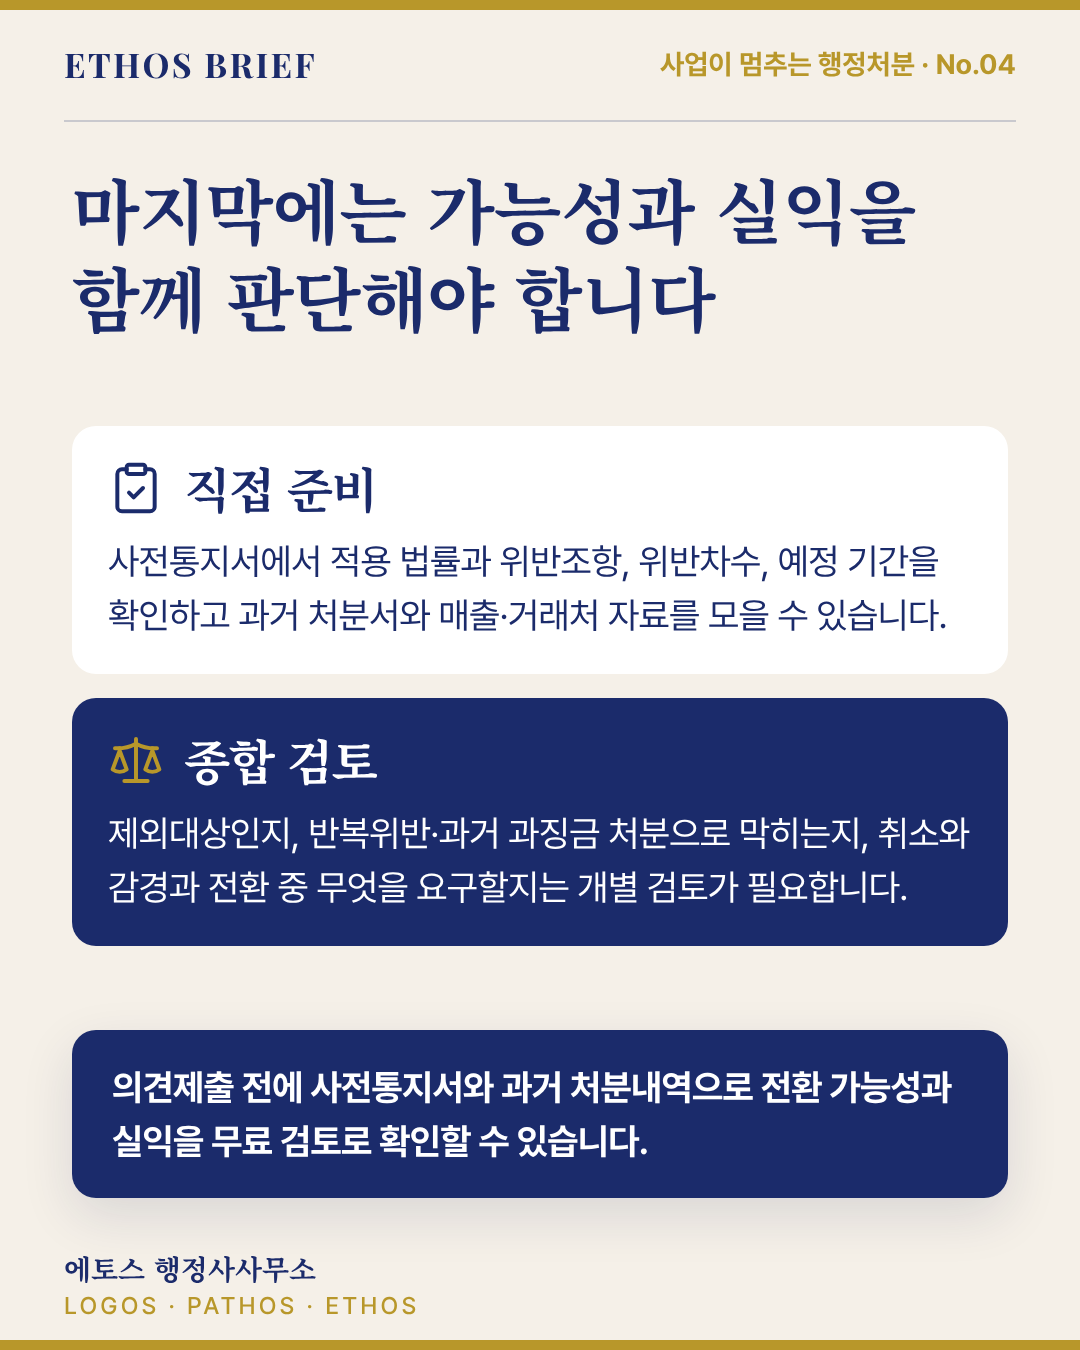
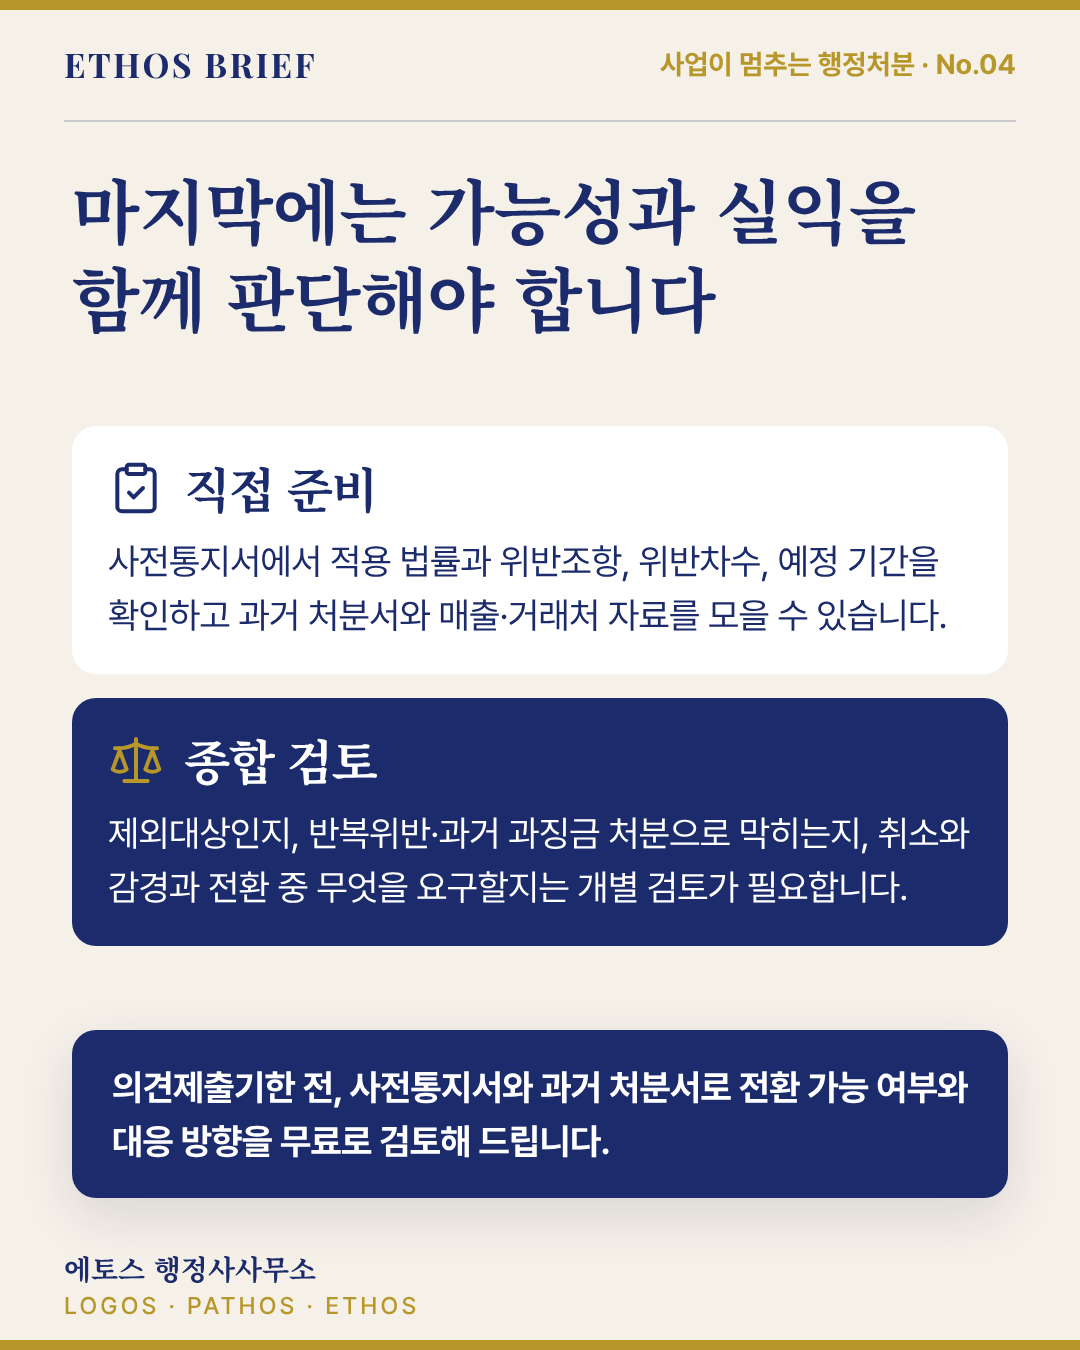
feat: 카드 분량 기준 통일(gates 1.7)과 전환 장치(실제 기한·구체 CTA·받을 자료·저장·다음 편) (#33)
- gates.json 1.7: 영문 카드 권고 340자·60단어, 강한 경고 420자·72단어(승인본 실측). card-limits 세트 평균 국문 130~210, 영문 280~440
- Render cards 워크플로가 기준 파일 변경에도 실행
- 전환 장치: 블로그 의견제출기한(행정절차법 제21조), 마지막 장 CTA(보낼 것→받을 결과), lead-magnet.md, 캡션 저장 신호·다음 편, 린터 안내, 명세 '전환 장치' 절
- TEST-SUSPENSION-V3 마지막 장 CTA 재승인

Claude-Session: https://claude.ai/code/session_01QUs8FUpMwmocYMUwhS2875

Changed region(s): [[0.0917, 0.7778, 0.8861, 0.8711]]

diff --git a/content/TEST-SUSPENSION-V3/ko/card_10.html b/content/TEST-SUSPENSION-V3/ko/card_10.html
@@ -43,7 +43,7 @@
   <path d="m5 8 3 8a5 5 0 0 1-6 0zV7" />
   <path d="M7 21h10" />
 </svg></div><div class="bound-k">종합 검토</div></div><div class="bound-t">제외대상인지, 반복위반·과거 과징금 처분으로 막히는지, 취소와 감경과 전환 중 무엇을 요구할지는 개별 검토가 필요합니다.</div></div></div></div>
-    <div class="z-take" data-zone="take"><div class="take" data-role="takeaway">의견제출 전에 사전통지서와 과거 처분내역으로 전환 가능성과 실익을 무료 검토로 확인할 수 있습니다.</div></div>
+    <div class="z-take" data-zone="take"><div class="take" data-role="takeaway">의견제출기한 전, 사전통지서와 과거 처분서로 전환 가능 여부와 대응 방향을 무료로 검토해 드립니다.</div></div>
   </div>
   <div class="ftr"><div class="org" data-frame="org">에토스 행정사사무소</div><div class="tagl" data-frame="tagline">LOGOS · PATHOS · ETHOS</div><div class="pg" data-frame="page" aria-hidden="true"></div></div>
   <div class="gold-bottom" data-frame="gold-bottom"></div>

diff --git a/content/TEST-SUSPENSION-V3/en/card_10.html b/content/TEST-SUSPENSION-V3/en/card_10.html
@@ -43,7 +43,7 @@
   <path d="m5 8 3 8a5 5 0 0 1-6 0zV7" />
   <path d="M7 21h10" />
 </svg></div><div class="bound-k">Needs review</div></div><div class="bound-t">Exclusions, limits from repeat violations or a past fine, and whether to seek cancellation, reduction or conversion need case-by-case review.</div></div></div></div>
-    <div class="z-take" data-zone="take"><div class="take" data-role="takeaway">Before you respond, a free review of your notice and past sanctions can check eligibility and payoff.</div></div>
+    <div class="z-take" data-zone="take"><div class="take" data-role="takeaway">Before the deadline, a free review of your notice and past sanctions shows eligibility and next steps.</div></div>
   </div>
   <div class="ftr"><div class="org" data-frame="org">Ethos Administrative Attorney Office</div><div class="tagl" data-frame="tagline">LOGOS · PATHOS · ETHOS</div><div class="pg" data-frame="page" aria-hidden="true"></div></div>
   <div class="gold-bottom" data-frame="gold-bottom"></div>

diff --git a/scripts/copy_lint.py b/scripts/copy_lint.py
@@ -631,7 +631,7 @@ def lint_information(data, lang, report):
     average = sum(counts) / len(counts)
     thin = [card["page"] for card, n in zip(cards, counts) if card["type"] not in ("cover", "cta", "quote") and n < floor * 0.7]
     if average < floor:
-        report.add("warn", "thin-set", f"[{lang}] 세트 전체", f"카드 평균 {average:.0f}자로 권장 하한 {floor}자보다 적습니다(승인본은 국문 약 130~165자, 영문 약 290~370자).",
+        report.add("warn", "thin-set", f"[{lang}] 세트 전체", f"카드 평균 {average:.0f}자로 권장 하한 {floor}자보다 적습니다(승인본은 국문 약 133~165자, 영문 약 287~368자).",
                    "정보가 얇으면 저장·공유할 이유가 약해집니다. 필드 한도 안에서 조건·기준·예시를 한 줄씩 더하거나, 얇은 카드를 합치세요.")
     ceiling = LIMITS.get("informationCeiling", {}).get(lang)
     if ceiling and average > ceiling:
@@ -728,6 +728,16 @@ def lint_distribution_file(path, report):
     if INTAKE_LINK not in text:
         report.add("warn", "no-intake-link", "distribution", "상담 접수 추적 링크가 없습니다. 어느 게시물에서 문의가 왔는지 집계되지 않습니다.",
                    "PROJECT_INSTRUCTIONS.md '마케팅·추적' 형식이나 `python scripts/tracking_link.py <ID>`로 채널별 링크를 넣으세요.")
+    # 전환 장치(권고): 저장 신호, 다음 편 연결, 받을 자료. 실제 기한·서비스 범위는 원문·brief에 있을 때만 쓴다.
+    if not re.search(r"저장|save", text, re.IGNORECASE):
+        report.add("info", "no-save-cue", "distribution", "캡션에 저장할 이유를 알려 주는 문장이 없습니다.",
+                   "'의견서를 쓰기 전에 다시 볼 수 있게 저장해 두세요'처럼 실제 쓰임과 묶어 한 줄 넣으세요.")
+    if re.search(r"시리즈|series", text, re.IGNORECASE) and not re.search(r"다음 편|next", text, re.IGNORECASE):
+        report.add("info", "no-next-episode", "distribution", "시리즈 글인데 캡션에 다음 편 안내가 없습니다.",
+                   "'다음 편: …' 한 줄을 넣으면 시리즈를 이어 보게 됩니다(원문 목차의 제목 그대로).")
+    if not (path.parent / "lead-magnet.md").exists():
+        report.add("info", "no-lead-magnet", "distribution", "받을 자료(lead-magnet.md)가 없습니다.",
+                   "원문의 확인 항목을 한 장 체크리스트로 만들면 문의 전 단계(저장·내려받기)가 생깁니다. 원문에 없는 사실은 넣지 않습니다.")
     tags = re.findall(r"#([^\s#]+)", "\n".join(line for line in text.splitlines() if not line.lstrip().startswith("#" * 2) and line.count("#") >= 3))
     for word, count in tag_rules.overused_words(tags):
         report.add("info", "dist-tags", "distribution 해시태그", f"'{word}'가 태그 {count}개에 들어 있습니다(같은 낱말 {tag_rules.MAX_SAME_WORD}개까지).",

diff --git a/tests/test_copy_lint.py b/tests/test_copy_lint.py
@@ -690,6 +690,19 @@ class BlogStructureTest(unittest.TestCase):
         self.assertIn("cta-not-last", self.run_blog(["본문", "무료 검토 안내", "목차 한 줄", "#가 #나 #다"]))
         self.assertNotIn("cta-not-last", self.run_blog(["본문", "무료 검토로 확인할 수 있습니다.", "#가 #나 #다"]))
 
+    def test_conversion_cues_are_suggested(self):
+        with tempfile.TemporaryDirectory() as tmp:
+            path = pathlib.Path(tmp) / "distribution.md"
+            path.write_text("시리즈 제4편\n", encoding="utf-8")
+            report = copy_lint.Report()
+            copy_lint.lint_distribution_file(path, report)
+            self.assertTrue({"no-save-cue", "no-next-episode", "no-lead-magnet"} <= {f["rule"] for f in report.findings})
+            path.write_text("시리즈 제4편 · 다음 편: 공인중개사\n저장해 두세요\n", encoding="utf-8")
+            (pathlib.Path(tmp) / "lead-magnet.md").write_text("확인표", encoding="utf-8")
+            report = copy_lint.Report()
+            copy_lint.lint_distribution_file(path, report)
+            self.assertFalse({"no-save-cue", "no-next-episode", "no-lead-magnet"} & {f["rule"] for f in report.findings})
+
     def test_distribution_without_intake_link_is_warned(self):
         with tempfile.TemporaryDirectory() as tmp:
             path = pathlib.Path(tmp) / "distribution.md"

diff --git a/content/TEST-SUSPENSION-V3/out/en/qa-report.md b/content/TEST-SUSPENSION-V3/out/en/qa-report.md
@@ -16,42 +16,34 @@
 | card_07.html | quote | 345 | 59 | 0.82 | 26 | PASS |
 | card_08.html | checklist | 230 | 45 | 0.76 | 26 | PASS |
 | card_09.html | checklist | 334 | 65 | 0.63 | 26 | PASS |
-| card_10.html | cta | 380 | 64 | 0.79 | 26 | PASS |
-
-### card_01.html 권고
-- words 54 > 권고 48 (영문 호흡과 모바일 가독성 확인)
+| card_10.html | cta | 381 | 64 | 0.79 | 26 | PASS |
 
 ### card_02.html 권고
-- chars 339 > 권고 300 (문장 압축 또는 카드 분리 검토)
-- words 65 > 강한 경고 48 (영문 호흡과 모바일 가독성 확인)
+- words 65 > 권고 60 (영문 호흡과 모바일 가독성 확인)
 
 ### card_03.html 권고
-- chars 337 > 권고 300 (문장 압축 또는 카드 분리 검토)
-- words 68 > 강한 경고 48 (영문 호흡과 모바일 가독성 확인)
+- words 68 > 권고 60 (영문 호흡과 모바일 가독성 확인)
 
 ### card_04.html 권고
-- chars 334 > 권고 300 (문장 압축 또는 카드 분리 검토)
-- words 61 > 권고 48 (영문 호흡과 모바일 가독성 확인)
+- words 61 > 권고 60 (영문 호흡과 모바일 가독성 확인)
 
 ### card_05.html 권고
-- chars 358 > 권고 300 (문장 압축 또는 카드 분리 검토)
-- words 64 > 권고 48 (영문 호흡과 모바일 가독성 확인)
+- chars 358 > 권고 340 (문장 압축 또는 카드 분리 검토)
+- words 64 > 권고 60 (영문 호흡과 모바일 가독성 확인)
 
 ### card_06.html 권고
-- chars 348 > 권고 300 (문장 압축 또는 카드 분리 검토)
-- words 67 > 강한 경고 48 (영문 호흡과 모바일 가독성 확인)
+- chars 348 > 권고 340 (문장 압축 또는 카드 분리 검토)
+- words 67 > 권고 60 (영문 호흡과 모바일 가독성 확인)
 
 ### card_07.html 권고
-- chars 345 > 권고 300 (문장 압축 또는 카드 분리 검토)
-- words 59 > 권고 48 (영문 호흡과 모바일 가독성 확인)
+- chars 345 > 권고 340 (문장 압축 또는 카드 분리 검토)
 
 ### card_09.html 권고
-- chars 334 > 권고 300 (문장 압축 또는 카드 분리 검토)
-- words 65 > 강한 경고 48 (영문 호흡과 모바일 가독성 확인)
+- words 65 > 권고 60 (영문 호흡과 모바일 가독성 확인)
 
 ### card_10.html 권고
-- chars 380 > 권고 300 (문장 압축 또는 카드 분리 검토)
-- words 64 > 권고 48 (영문 호흡과 모바일 가독성 확인)
+- chars 381 > 권고 340 (문장 압축 또는 카드 분리 검토)
+- words 64 > 권고 60 (영문 호흡과 모바일 가독성 확인)
 
 ## 사람이 확인할 것 (자동화 불가)
 - [ ] 법령·판례 해석이 원문과 일치하는가 (변호사·행정사 최종 확인)
@@ -64,4 +56,4 @@
 - [ ] 마지막 장 CTA 문구가 마스터 지침의 무료 검토 안내와 일치하는가
 - [ ] 카드 한 장이 한 가지 메시지만 전달하는가
 
-게이트 v1.6 · 기준은 초기 가설(instagram-profile-advisory)
+게이트 v1.7 · 기준은 초기 가설(instagram-profile-advisory)

diff --git a/content/TEST-SUSPENSION-V3/distribution.md b/content/TEST-SUSPENSION-V3/distribution.md
@@ -11,9 +11,15 @@
 ## SNS 캡션
 영업정지 사전통지를 받은 사업자를 위한 정리입니다. 영업정지 대신 과징금을 내면 끝일까요? 전환 근거가 있는지, 이번 위반이 제외대상인지, 과거 처분 때문에 제한되는지부터 봐야 합니다. 가능하더라도 예상 과징금과 실제 영업손실을 함께 비교해야 합니다.
 
-시리즈 「사업이 멈추는 행정처분」 제4편 · 제1편: 사전통지서를 받았다면
+사전통지서에 적힌 의견제출기한(10일 이상으로 정하도록 되어 있습니다) 안에 확인해야 할 것들입니다. 의견서를 쓰기 전에 다시 볼 수 있게 저장해 두세요.
 
-근거: 식품위생법 제82조, 폐기물관리법 제28조, 건설산업기본법 제82조·제83조, 행정심판법 제51조
+시리즈 「사업이 멈추는 행정처분」 제4편 · 다음 편: 공인중개사 업무정지 — 6개월 처분도 달라질 수 있을까 · 제1편: 사전통지서를 받았다면
+
+근거: 행정절차법 제21조, 식품위생법 제82조, 폐기물관리법 제28조, 건설산업기본법 제82조·제83조, 행정심판법 제51조
+
+## 받을 자료(확인표) 문구 — `lead-magnet.md`를 프로필 링크 페이지에 올린 뒤에만 쓴다
+- 국문: 이 카드의 확인 항목을 한 장으로 정리한 「사전통지서 확인표」는 프로필 링크에서 받을 수 있습니다.
+- 영문: A one-page advance-notice checklist with these checks is available from the profile link.
 
 ## 해시태그
 #영업정지과징금 #과징금전환 #영업정지사전통지 #의견제출 #행정처분 #행정심판 #식품위생법 #폐기물처리업 #건설업
@@ -46,9 +52,11 @@
 
 For business owners in Korea who have received an advance notice of a business suspension. Can you pay a fine instead and keep operating? Only where the law allows it. First check whether the governing law provides a fine in place of suspension, whether this violation is excluded, and whether past sanctions block conversion. Even when conversion is possible, compare the expected fine with your real losses from a suspension.
 
-Series "When Business Stops" No.04 · No.01: when you receive an advance notice
+Your advance notice states a response deadline, which must allow at least 10 days. Save this to check before you write your response.
 
-Basis: Food Sanitation Act Art. 82, Wastes Control Act Art. 28, Framework Act on the Construction Industry Arts. 82–83, Administrative Appeals Act Art. 51
+Series "When Business Stops" No.04 · Next: a six-month suspension for a real-estate agency · No.01: when you receive an advance notice
+
+Basis: Administrative Procedures Act Art. 21, Food Sanitation Act Art. 82, Wastes Control Act Art. 28, Framework Act on the Construction Industry Arts. 82–83, Administrative Appeals Act Art. 51
 
 ### Hook variants
 

diff --git a/CHANGELOG.md b/CHANGELOG.md
@@ -1,5 +1,22 @@
 # Changelog
 
+## 2026-10-07 — 전환 장치(실제 기한·보낼 것→받을 결과·받을 자료·저장·다음 편)
+
+- 원칙 안에서 문의로 이어지게: 꾸며낸 긴장 금지, CTA 마지막 한 번, 카드·본문 연락처 금지는 그대로.
+- TEST-SUSPENSION-V3: 블로그에 의견제출기한 단락(행정절차법 제21조 제1항 제6호·제3항, korean-law-mcp로 2026-10-07 원문 확인). 마지막 장 CTA를 "의견제출기한 전, 사전통지서와 과거 처분서로 전환 가능 여부와 대응 방향을 무료로 검토해 드립니다"로(결과는 brief의 승인 범위, 회신 기간은 미확인이라 쓰지 않음). 캡션에 기한·저장 신호·다음 편, 받을 자료 `lead-magnet.md`(사전통지서 확인표, 원문 내용만).
+- `copy_lint.py`: 배포안에 저장 신호(`no-save-cue`)·다음 편(`no-next-episode`)·받을 자료(`no-lead-magnet`)가 없으면 안내.
+- 명세: `card-authoring-spec.md` "전환 장치" 절, `blog-authoring-spec.md` 머리 안내. `strategy-playbook.md` 6절에 웹사이트 요청(접수 폼 첨부 칸, 받을 자료 페이지) 추가.
+
+## 2026-10-07 — 카드 분량 기준 통일(승인본 실측)
+
+- 문제: 명세는 영문 세트 평균 330자 **이상**, QA(`gates.json`)는 영문 카드 300자·48단어 **이하**를 권해 동시에 맞출 수 없었다. 국문도 명세 하한 150자가 승인본 평균(133~165자)보다 높았다. 승인본 영문 세트조차 카드의 22~78%가 권고에 걸렸다.
+- 사용자 위임으로 승인본 실측(SUSPENSION-SURCHARGE-04·GAME-OVERSEAS-06·시범 세트)에 맞춰 정했다.
+  - `gates.json` 1.7: 영문 카드 권고 340자·60단어, 강한 경고 420자·72단어(이전 300·48 / 380·64). 국문 180·240은 그대로.
+  - `card-limits.json`: 세트 평균 하한 국문 130·영문 280(이전 150·330), 상한 국문 210·영문 440(이전 220·450).
+  - 명세·프로젝트 지침: 목표 국문 150~190자, 영문 300~400자. 영문은 국문의 약 2.2배가 정상.
+- 모든 기준은 권고이며 렌더를 막지 않는다(하드 실패 조건은 바꾸지 않았다).
+- `Render cards` 워크플로가 `gates.json`·`card-limits.json` 변경에도 돌도록 했다(바뀐 세트가 없으면 전체 세트를 새 기준으로 미리보기). 승인 세트의 커밋된 `out/` QA 보고서는 승인 당시(v1.6) 기록이라 다시 쓰지 않았다.
+
 ## 2026-10-07 — 남은 개선 마무리(표·흐름 부품, 표지 그림, 밀도, 성과 기록)
 
 - 자동 디자인: 표(`.tbl2`, 5행 이상 압축), 세로 흐름(`.vflow`, 아이콘 배지+화살표+메모), 마지막 장 3~6개 목록(`.docs`) 부품. 문자열 항목("제목: 설명")은 구분 기호를 남겨 원문 그대로 보이게 했다. GAME-OVERSEAS-06-V2-DRAFT의 표 2장·흐름 1장이 자동 디자인으로 나온다.

diff --git a/content/TEST-SUSPENSION-V3/lead-magnet.md b/content/TEST-SUSPENSION-V3/lead-magnet.md
@@ -1,0 +1,32 @@
+# 사전통지서 확인표 — 영업정지를 과징금으로 바꿀 수 있을까
+
+에토스 행정사사무소 · 「사업이 멈추는 행정처분」 제4편 받을 자료. 원문(`blog.md`)에 있는 내용만 한 장으로 정리했다. 개별 사건의 결론이 아니다.
+
+## 1. 사전통지서에서 먼저 표시할 것
+- [ ] 의견제출기한 — 사전통지서에 적혀 있다(행정절차법 제21조 제1항 제6호). 10일 이상으로 정하도록 되어 있다(같은 조 제3항)
+- [ ] 적용 법률과 위반조항
+- [ ] 위반차수(처음인지, 반복인지)
+- [ ] 예정된 영업정지 기간
+
+## 2. 과징금 전환, 네 가지 순서로 보기
+1. **근거** — 근거법률에 영업정지를 갈음하는 과징금 규정이 있는가
+2. **제외** — 이번 위반행위와 위반차수가 제외대상인가
+3. **전력** — 과거 위반·과징금 처분이 다시 전환을 막는가
+4. **실익** — 예상 과징금과 영업정지 때의 실제 손실을 비교했는가
+
+## 3. 전환이 막히는 경우
+- [ ] 처분조항 자체에 영업정지를 갈음하는 과징금 근거가 없다
+- [ ] 이번 위반행위나 위반차수가 법령상 제외대상이다
+- [ ] 과거 과징금 처분 등으로 일정 기간 다시 전환할 수 없다
+- [ ] 사업 손실만 주장하고 법이 정한 전환요건을 입증하지 못했다
+
+## 4. 미리 모아 둘 자료
+- [ ] 사전통지서
+- [ ] 과거 처분서
+- [ ] 매출 자료, 거래처 자료
+
+## 5. 알아 둘 것
+- 행정심판 재결이 나오면 같은 처분으로 다시 청구할 수 없다(행정심판법 제51조). 무엇을 요구할지(취소·감경·과징금 전환)는 첫 청구에서 정한다.
+
+---
+제외대상인지, 반복위반이나 과거 처분으로 막히는지, 어떤 대응을 요구할지는 개별 검토가 필요하다. 의견제출기한 전에 사전통지서와 과거 처분서로 무료 검토를 받을 수 있다.

diff --git a/PROJECT_INSTRUCTIONS.md b/PROJECT_INSTRUCTIONS.md
@@ -35,7 +35,7 @@
    - `brief.md`는 10줄 이내(독자, 독자의 질문, 직접 답, CTA로 받을 자료 2~3개·확인 결과 1~3개, 카드별 한 줄 제목). `distribution.md`는 `content/_TEMPLATE/distribution.md` 구조 그대로 짧게.
    - 생각을 길게 늘어놓지 않는다. 근거 확인과 한도 계산을 문장마다 반복하지 말고, 쓴 뒤 한 번만 훑는다.
 3. **시각 요소를 쓴다.** 표지에 `art`(아이콘 2~3개)나 `coverStyle`, 카드의 3분의 1 이상에 `icon`(`assets/icons/lucide`·`tabler`의 파일 이름), 가장 강한 숫자는 `stats`·`bars`·`hero`로 크게.
-4. 카드당 평균 보이는 글자는 국문 150~200자를 목표로 한다. 말로 한 초안을 곧바로 카드 문구로 줄이고, 별도 윤문·재검증 패스는 돌리지 않는다. 카드는 6~10장.
+4. 카드당 평균 보이는 글자는 국문 150~190자(영문 300~400자)를 목표로 한다. 한 장이 국문 180자·영문 340자를 넘으면 줄인다. 말로 한 초안을 곧바로 카드 문구로 줄이고, 별도 윤문·재검증 패스는 돌리지 않는다. 카드는 6~10장.
 5. `editorialReview`의 단계 값은 `pass`·`pending`만 쓴다. 하지 않은 단계(`languagePass` 등)는 `pending`(정상, Codex가 마친다). 숫자·조문·날짜·"수 있/이하/또는" 한정어는 원문 그대로.
 6. 마지막 답변에는 읽은 파일·쓴 파일 목록과 짧은 자가 점검만 붙인다. QA 보고서의 FAIL은 JSON에서만 고친다. 스크립트를 실행하지 못하면 실행한 것처럼 말하지 않는다.
 

diff --git a/docs/blog-authoring-spec.md b/docs/blog-authoring-spec.md
@@ -4,6 +4,8 @@
 
 > **사실과 법률에는 엄격하게, 문체에는 여유를 준다.** 모델이 규칙을 관리하느라 글이 늦어지고 보고서처럼 굳는 것이 가장 큰 위험이다. 초안을 쓰면서 모든 규칙을 동시에 지키려고 하지 않는다.
 
+> **전환 장치**: 원문에 근거가 있는 실제 기한(예: 사전통지서의 의견제출기한)을 독자 상황 바로 뒤에 둔다. 마지막 무료 검토 안내에는 보낼 자료와 받을 결과를 함께 쓴다. 확인되지 않은 서비스 사실(회신 기간 등)은 쓰지 않는다. 받을 자료가 있으면 `content/<ID>/lead-magnet.md`로 만든다(`docs/card-authoring-spec.md` "전환 장치").
+
 ## 1. 먼저 경로를 고른다
 
 요청을 받으면 아래 중 하나로 분류하고, 한 줄로 어느 경로인지 알린 뒤 시작한다.
